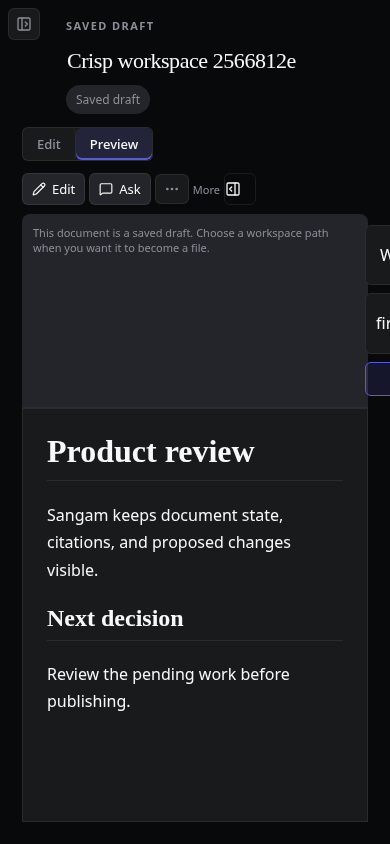
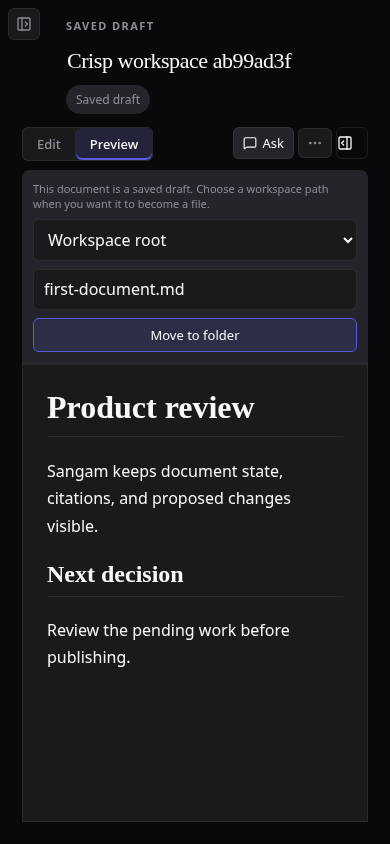
fix(frontend): recover mobile toolbar layout and accessible activity contrast
- Fix mobile materialize bar flex wrapping that overflowed action controls off-screen
- Streamline mobile document toolbar to a single line without button duplication or unclickable labels
- Resolve WCAG AA color contrast violations on activity links and summaries
- Refresh mobile before/after visual verification evidence

diff --git a/frontend/src/styles/settings.css b/frontend/src/styles/settings.css
@@ -279,8 +279,8 @@
 .activity-event { display: grid; grid-template-columns: 90px minmax(0, 1fr) auto; align-items: center; gap: var(--space-3); padding: var(--space-3) var(--space-2); border: 0; border-bottom: 1px solid var(--line); border-radius: 0; background: transparent; }
 .activity-event > div { min-width: 0; display: grid; gap: 3px; }
 .activity-event small { color: var(--muted); font-size: var(--text-meta); }
-.activity-event code { justify-self: start; color: var(--accent); font-size: var(--text-meta); }
-.activity-event > a { display: flex; align-items: center; gap: 4px; color: var(--accent); font-size: var(--text-control); text-decoration: none; }
+.activity-event code { justify-self: start; color: var(--text-secondary); font-size: var(--text-meta); }
+.activity-event > a { display: flex; align-items: center; gap: 4px; color: var(--text); font-size: var(--text-control); text-decoration: underline; text-decoration-color: var(--accent); text-underline-offset: 3px; }
 .activity-outcome { display: inline-flex; align-items: center; gap: 5px; color: var(--accent-text); font-size: var(--text-meta); text-transform: capitalize; }
 .activity-event.denied .activity-outcome, .activity-event.conflict .activity-outcome, .activity-event.failed .activity-outcome { color: var(--danger); }
 .settings-nav-items button { grid-template-columns: 18px minmax(0, 1fr) auto; }
@@ -319,7 +319,7 @@
 .activity-section-heading h2 { margin: 0; font-size: var(--text-body); font-weight: 600; line-height: var(--leading-tight); }
 .activity-section-heading > small { margin-left: auto; color: var(--muted); font-size: var(--text-meta); }
 .activity-section-heading p { margin: 2px 0 0; color: var(--muted); font-size: var(--text-meta); }
-.activity-section-heading > a { margin-left: auto; color: var(--accent); font-size: var(--text-control); }
+.activity-section-heading > a { margin-left: auto; color: var(--text); font-size: var(--text-control); text-decoration: underline; text-decoration-color: var(--accent); text-underline-offset: 3px; }
 .activity-problem { display: grid; grid-template-columns: auto minmax(0, 1fr) auto; align-items: center; gap: var(--space-3); padding: var(--space-3); border-left: 2px solid var(--danger); background: var(--danger-soft); }
 .activity-problem.conflict { border-color: var(--warning); background: color-mix(in srgb, var(--warning) 8%, var(--surface)); }
 .activity-problem > svg { color: var(--danger); }
@@ -329,7 +329,7 @@
 .activity-problem p { margin: 2px 0; font-size: var(--text-control); line-height: var(--leading-ui); }
 .activity-problem small { display: block; color: var(--muted); font-size: var(--text-meta); }
 .activity-show-more { justify-self: center; }
-.activity-show-acknowledged { justify-self: start; padding: 0; border: 0; background: transparent; color: var(--accent); font-size: var(--text-control); }
+.activity-show-acknowledged { justify-self: start; padding: 0; border: 0; background: transparent; color: var(--text); font-size: var(--text-control); text-decoration: underline; text-decoration-color: var(--accent); text-underline-offset: 3px; cursor: pointer; }
 .activity-acknowledged-list { display: grid; gap: var(--space-2); }
 .activity-problem-actions { display: flex; flex-wrap: wrap; justify-content: flex-end; gap: var(--space-2); }
 .activity-chart-panel { padding: var(--space-3); border: 1px solid var(--line); border-radius: var(--radius-panel); background: var(--surface-soft); }
@@ -346,7 +346,7 @@
 .activity-chart-legend i { width: var(--space-2); height: var(--space-2); border-radius: var(--radius-pill); }
 .activity-chart-legend i.accepted { background: var(--accent); }
 .activity-chart-legend i.problems { background: var(--danger); }
-.activity-trend-table summary { color: var(--accent); font-size: var(--text-control); cursor: pointer; }
+.activity-trend-table summary { color: var(--text); font-size: var(--text-control); text-decoration: underline; text-decoration-color: var(--accent); text-underline-offset: 3px; cursor: pointer; }
 .activity-trend-table table { width: 100%; margin-top: var(--space-2); border-collapse: collapse; font-size: var(--text-meta); }
 .activity-trend-table th, .activity-trend-table td { padding: var(--space-2); border-bottom: 1px solid var(--line); text-align: left; }
 .activity-insight-grid { display: grid; grid-template-columns: repeat(2, minmax(0, 1fr)); gap: 0 var(--space-5); }
@@ -369,7 +369,7 @@
 .activity-operation-events { margin-top: var(--space-3); padding-left: var(--space-4); border-left: 1px solid var(--line); }
 .activity-event { grid-template-columns: 90px minmax(0, 1fr) minmax(8rem, auto); }
 .activity-event-actions { display: grid; justify-items: end; gap: var(--space-1); }
-.activity-event-actions a { color: var(--accent); font-size: var(--text-meta); text-decoration: none; }
+.activity-event-actions a { color: var(--text); font-size: var(--text-meta); text-decoration: underline; text-decoration-color: var(--accent); text-underline-offset: 3px; }
 .activity-event strong { font-size: var(--text-control); font-weight: 600; line-height: var(--leading-ui); }
 .activity-event.denied .activity-outcome { color: var(--danger); }
 .activity-event.conflict .activity-outcome { color: var(--warning); }

diff --git a/frontend/src/styles/document.css b/frontend/src/styles/document.css
@@ -638,7 +638,7 @@ button:disabled { cursor: not-allowed; opacity: .56; }
   display: none;
 }
 
-.mobile-document-actions, .mobile-more-label {
+.mobile-document-actions {
   display: none;
 }
 
@@ -662,7 +662,6 @@ button:disabled { cursor: not-allowed; opacity: .56; }
   .desktop-shortcut { display: none; }
   .mobile-inspector-toggle { display: inline-flex; }
   .mobile-document-actions { display: inline-flex; align-items: center; gap: var(--space-1); }
-  .mobile-more-label { display: inline; color: var(--muted); font-size: var(--text-meta); }
   .document-toolbar-actions { gap: var(--space-1); }
 
   .inspector-backdrop {
@@ -751,8 +750,25 @@ button:disabled { cursor: not-allowed; opacity: .56; }
 }
 @media (max-width: 650px) {
   .sidebar { width: 100% !important; min-height: auto; max-height: none; }
-  .document-workspace { padding: 23px 15px; }
-  .materialize-bar, .tag-creator { align-items: stretch; flex-direction: column; }
+  .document-workspace { padding: 20px 14px; }
+  .materialize-bar {
+    align-items: stretch;
+    flex-direction: column;
+    flex-wrap: nowrap;
+    gap: var(--space-2);
+  }
+  .materialize-copy {
+    flex: none;
+    width: 100%;
+  }
+  .materialize-bar select,
+  .materialize-bar input,
+  .materialize-bar button {
+    width: 100%;
+    min-width: 0;
+    flex: none;
+  }
+  .tag-creator { align-items: stretch; flex-direction: column; }
   .settings-page { width: calc(100% - 30px); padding-top: 35px; }
   .theme-grid, .panel-controls, .folder-setting { grid-template-columns: 1fr; }
   .utility-page { width: calc(100% - 30px); padding-top: 30px; }
@@ -772,10 +788,16 @@ button:disabled { cursor: not-allowed; opacity: .56; }
   .draft-recovery-actions, .conflict-actions { justify-content: flex-start; }
   .conflict-metadata { grid-template-columns: 1fr; }
   .citation-evidence > header, .chat-citation-status { align-items: stretch; flex-direction: column; }
-  .document-toolbar { align-items: flex-start; }
+  .document-toolbar { align-items: center; justify-content: space-between; gap: var(--space-2); flex-wrap: nowrap; }
+  .document-toolbar-actions { flex-shrink: 0; gap: var(--space-1); }
   .editor-tools > span { width: 100%; margin-left: 0; }
   .backup-card li { grid-template-columns: 1fr auto; }
   .backup-card li small { grid-column: 1 / -1; }
   .welcome { margin: 7dvh auto; padding: 30px 20px; }
+  .welcome-heading-row { flex-direction: column; align-items: flex-start; gap: var(--space-2); }
+  .review-home-link { align-self: flex-start; }
   .welcome-recent { grid-template-columns: 1fr; }
+  .review-page { padding: var(--space-4) var(--space-3); }
+  .review-page-header { flex-direction: column; gap: var(--space-2); }
+  .review-card-header { flex-direction: column; gap: var(--space-2); }
 }

diff --git a/frontend/src/components/document/DocumentWorkspace.tsx b/frontend/src/components/document/DocumentWorkspace.tsx
@@ -1,15 +1,7 @@
 import { lazy, Suspense, useEffect, useRef, useState } from 'react'
 import { useMutation, useQuery, useQueryClient } from '@tanstack/react-query'
 import { useNavigate } from '@tanstack/react-router'
-import {
-  Columns2,
-  MessageSquare,
-  MoreHorizontal,
-  PanelRightClose,
-  PanelRightOpen,
-  Pencil,
-  Rows2,
-} from 'lucide-react'
+import { Columns2, MessageSquare, MoreHorizontal, PanelRightClose, PanelRightOpen, Rows2 } from 'lucide-react'
 import { api, type Document, type Revision } from '../../api'
 import {
   CITATION_NAVIGATION_EVENT,
@@ -531,7 +523,7 @@ function DocumentToolbar({
       navigate({ to: '/documents/$documentId', params: { documentId: created.document_id } }),
   })
   const remove = useMutation({ mutationFn: () => api.deleteDocument(document), onSuccess: onDeleted })
-  const { updatePreferences } = useTheme()
+  const { preferences, updatePreferences } = useTheme()
   const busy =
     saveState !== 'saved' || rename.isPending || move.isPending || duplicate.isPending || remove.isPending
   const changeMode = (nextMode: EditorMode) => {
@@ -567,9 +559,6 @@ function DocumentToolbar({
       </div>
       <div className="document-toolbar-actions">
         <div className="mobile-document-actions" aria-label="Document actions">
-          <button type="button" className="secondary-action" onClick={() => changeMode('edit')}>
-            <Pencil size="var(--icon-inline)" /> Edit
-          </button>
           <button type="button" className="secondary-action" onClick={openChat}>
             <MessageSquare size="var(--icon-inline)" /> Ask
           </button>
@@ -666,16 +655,17 @@ function DocumentToolbar({
             </div>
           )}
         </ActionDialog>
-        <span className="mobile-more-label">More</span>
-        <button
-          type="button"
-          className="icon-button mobile-inspector-toggle"
-          aria-label="Open document inspector"
-          title="More document tools"
-          onClick={() => updatePreferences({ rightVisible: true })}
-        >
-          <PanelRightOpen size="var(--icon-control)" />
-        </button>
+        {!preferences.rightVisible && (
+          <button
+            type="button"
+            className="icon-button mobile-inspector-toggle"
+            aria-label="Open document inspector"
+            title="More document tools"
+            onClick={() => updatePreferences({ rightVisible: true })}
+          >
+            <PanelRightOpen size="var(--icon-control)" />
+          </button>
+        )}
       </div>
     </div>
   )
